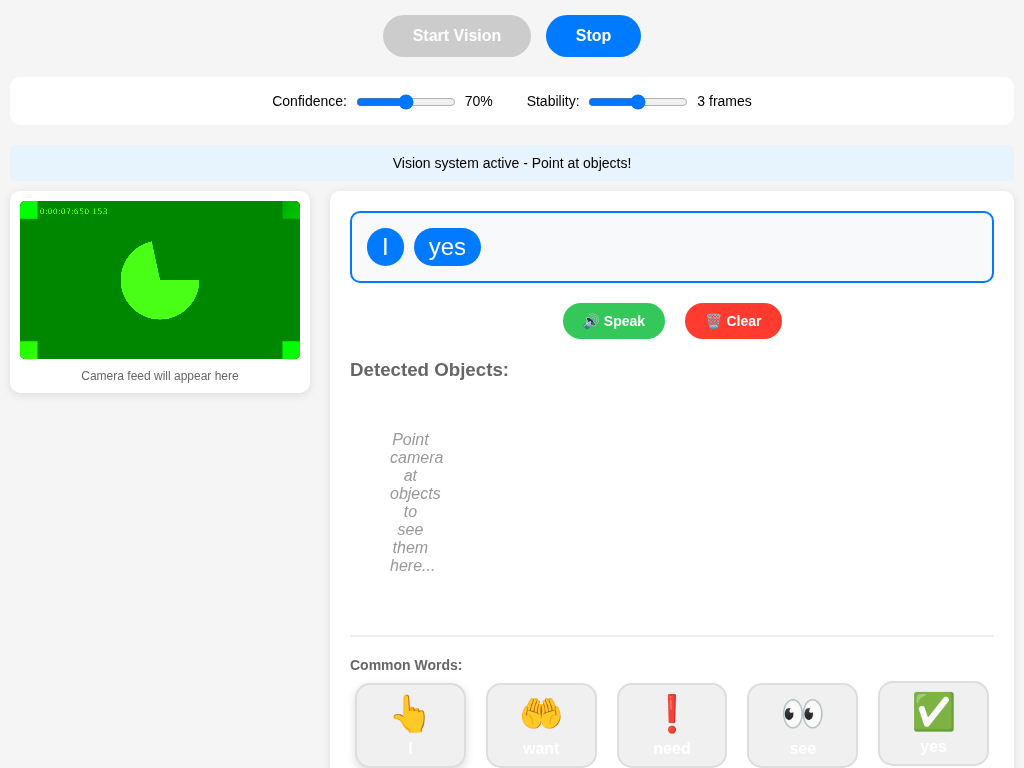
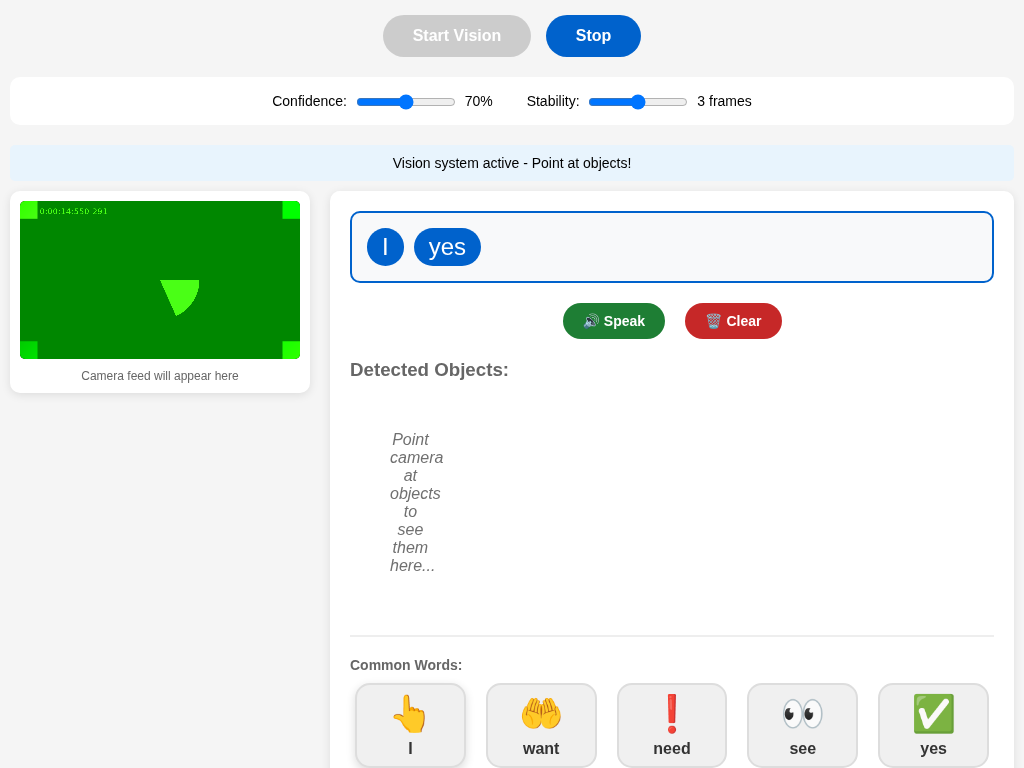
Demo pages: make word labels visible and meet WCAG AA contrast
The global button rule sets white text, and the word buttons override only
the background (white, or light grey for the common words), so their labels
were white on white or white on grey and could not be read. Word and AAC
buttons now use dark text.

Also, from an axe-core scan of the three demo pages:
- darker shades of the same blue, green and red so white text on buttons
  meets 4.5:1, and #707070 instead of #999 for placeholder text
- a main landmark on each page
- headings on the simple-words page go h1 -> h2 instead of skipping to h3
  (same rendered size)

axe (WCAG 2.1 A/AA + best practice), with detections simulated:
simple-words 4 -> 0 rules violated, integrated 3 -> 0, vision 3 -> 0.
The README screenshot is regenerated to match.

diff --git a/test-simple-words.html b/test-simple-words.html
@@ -35,7 +35,7 @@
         }
         
         button {
-            background: #007AFF;
+            background: #0062CC;
             color: white;
             border: none;
             padding: 12px 30px;
@@ -114,7 +114,7 @@
         
         .sentence-bar {
             background: #f8f9fa;
-            border: 2px solid #007AFF;
+            border: 2px solid #0062CC;
             border-radius: 10px;
             padding: 15px;
             margin-bottom: 20px;
@@ -127,7 +127,7 @@
         }
         
         .sentence-word {
-            background: #007AFF;
+            background: #0062CC;
             color: white;
             padding: 5px 15px;
             border-radius: 20px;
@@ -142,7 +142,8 @@
         
         .word-button {
             background: white;
-            border: 3px solid #007AFF;
+            color: #333;
+            border: 3px solid #0062CC;
             border-radius: 15px;
             padding: 15px 10px;
             text-align: center;
@@ -158,7 +159,7 @@
         
         .word-button:active {
             transform: scale(0.95);
-            background: #007AFF;
+            background: #0062CC;
             color: white;
         }
         
@@ -181,7 +182,7 @@
             background: #e8f4fd;
             padding: 2px 6px;
             border-radius: 10px;
-            color: #007AFF;
+            color: #0062CC;
         }
         
         .action-buttons {
@@ -192,13 +193,13 @@
         }
         
         .action-button {
-            background: #34C759;
+            background: #1E7E34;
             padding: 10px 20px;
             font-size: 14px;
         }
         
         .action-button.clear {
-            background: #FF3B30;
+            background: #C62828;
         }
         
         .status {
@@ -212,7 +213,7 @@
         
         .empty-state {
             text-align: center;
-            color: #999;
+            color: #707070;
             padding: 40px;
             font-style: italic;
         }
@@ -224,7 +225,7 @@
             padding-top: 20px;
         }
         
-        .common-words h3 {
+        .common-words h2 {
             font-size: 14px;
             color: #666;
             margin-bottom: 10px;
@@ -239,7 +240,7 @@
     </style>
 </head>
 <body>
-    <div class="container">
+    <div class="container" role="main">
         <h1>👁 VisionVocabularyAAC - Simple Words</h1>
         
         <div class="controls">
@@ -275,7 +276,7 @@
             <div class="vocabulary-panel">
                 <!-- Sentence builder -->
                 <div class="sentence-bar" id="sentenceBar">
-                    <span style="color: #999;">Click words to build sentence...</span>
+                    <span style="color: #707070;">Click words to build sentence...</span>
                 </div>
                 
                 <!-- Action buttons -->
@@ -285,7 +286,7 @@
                 </div>
                 
                 <!-- Dynamic vocabulary -->
-                <h3 style="margin: 20px 0 10px; color: #666;">Detected Objects:</h3>
+                <h2 style="margin: 20px 0 10px; color: #666; font-size: 1.17em;">Detected Objects:</h2>
                 <div class="word-grid" id="wordGrid">
                     <div class="empty-state">
                         Point camera at objects to see them here...
@@ -294,7 +295,7 @@
                 
                 <!-- Common words -->
                 <div class="common-words">
-                    <h3>Common Words:</h3>
+                    <h2>Common Words:</h2>
                     <div class="word-grid" id="commonWords">
                         <!-- Will be populated with common words -->
                     </div>
@@ -653,7 +654,7 @@
         // Update sentence display
         function updateSentenceDisplay() {
             if (sentence.length === 0) {
-                sentenceBar.innerHTML = '<span style="color: #999;">Click words to build sentence...</span>';
+                sentenceBar.innerHTML = '<span style="color: #707070;">Click words to build sentence...</span>';
             } else {
                 sentenceBar.innerHTML = sentence.map(word => 
                     `<span class="sentence-word">${word}</span>`

diff --git a/test-integrated.html b/test-integrated.html
@@ -62,7 +62,7 @@
         }
         
         button {
-            background: #007AFF;
+            background: #0062CC;
             color: white;
             border: none;
             padding: 12px 30px;
@@ -90,7 +90,8 @@
         
         .aac-button {
             background: white;
-            border: 3px solid #007AFF;
+            color: #333;
+            border: 3px solid #0062CC;
             border-radius: 15px;
             padding: 20px 15px;
             text-align: center;
@@ -105,7 +106,7 @@
         }
         
         .aac-button:active {
-            background: #007AFF;
+            background: #0062CC;
             color: white;
             transform: scale(0.95);
         }
@@ -167,14 +168,14 @@
         
         .empty-state {
             text-align: center;
-            color: #999;
+            color: #707070;
             padding: 40px;
             font-style: italic;
         }
     </style>
 </head>
 <body>
-    <div class="container">
+    <div class="container" role="main">
         <h1>🎯 Vision → 💬 AAC Integration Test</h1>
         
         <div class="controls">

diff --git a/test-vision.html b/test-vision.html
@@ -38,7 +38,7 @@
         }
         
         button {
-            background: #007AFF;
+            background: #0062CC;
             color: white;
             border: none;
             padding: 12px 30px;
@@ -62,7 +62,7 @@
         
         .detection-item {
             display: inline-block;
-            background: #007AFF;
+            background: #0062CC;
             color: white;
             padding: 10px 20px;
             border-radius: 20px;
@@ -87,7 +87,7 @@
     </style>
 </head>
 <body>
-    <div class="container">
+    <div class="container" role="main">
         <h1>Vision System Test</h1>
         
         <video id="video" autoplay playsinline></video>
